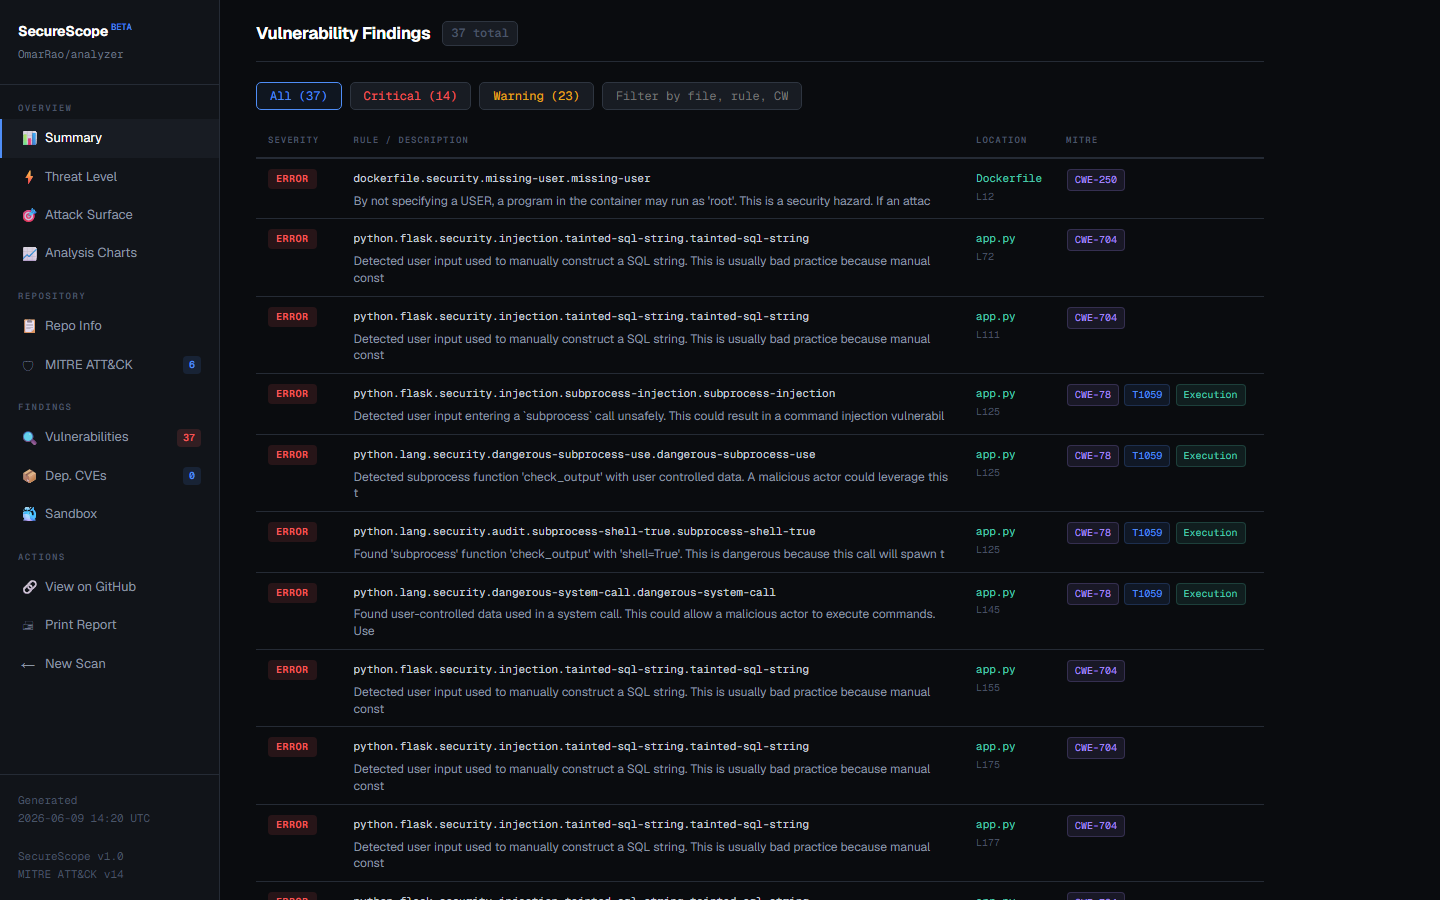
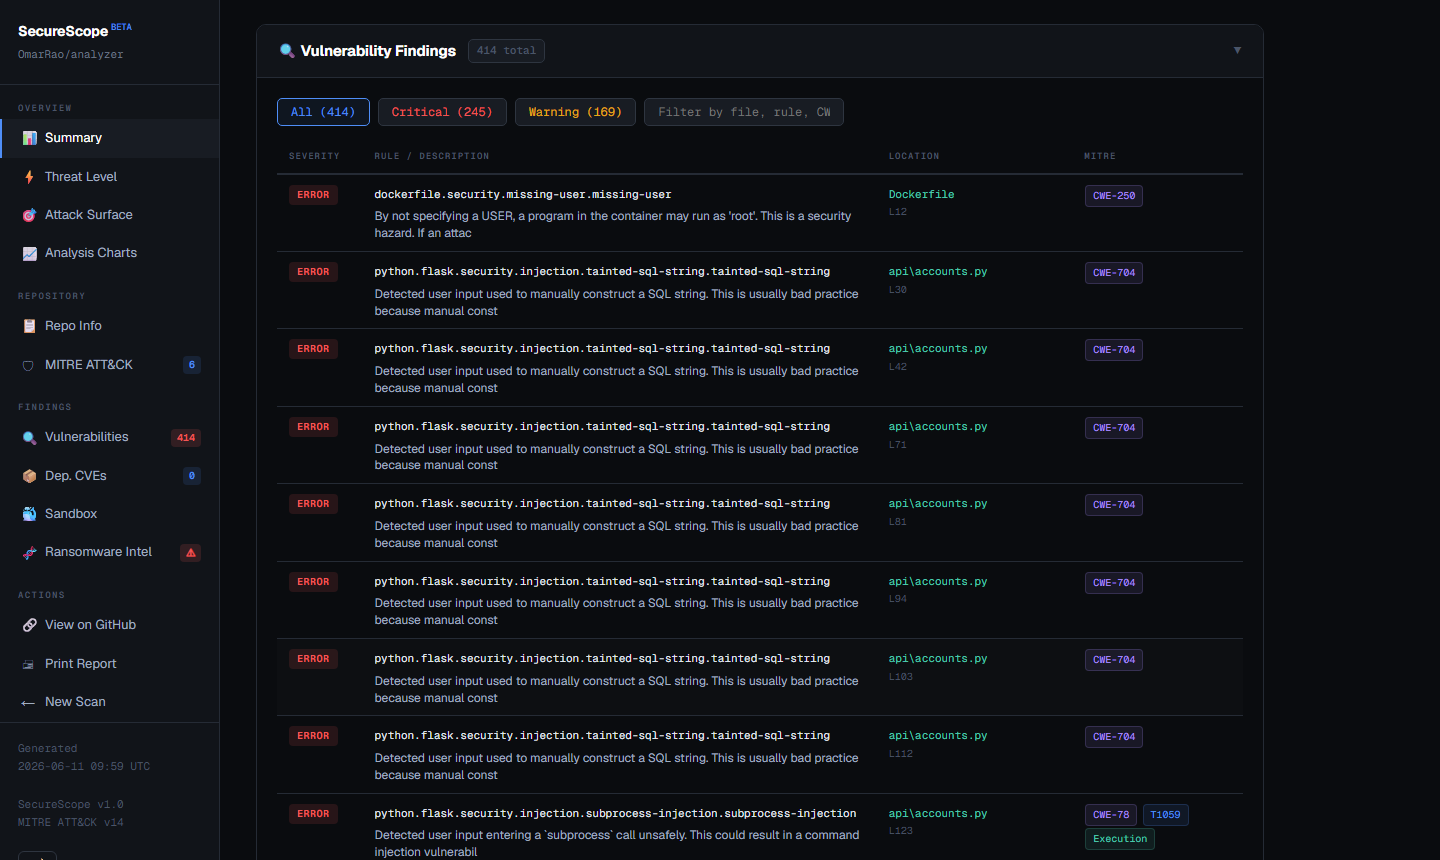
Update README screenshots and documentation for v2.0.0
- Replaced all landing page screenshots with fresh captures showing current UI
- Added Threat Intelligence Dashboard screenshots (feed + top-10 panel, resilience + YARA panel)
- Added report screenshots: header, ransomware strip + jump bar, charts, findings, ransomware intel section
- Updated README structure: cleaner section ordering, new Threat Intel feature table, YARA rule set table
- Added founder credit line at end of README
- All 11 screenshots regenerated from live localhost:5001 via Playwright headless

diff --git a/README.md b/README.md
@@ -7,29 +7,15 @@
 > AI-powered security analysis for any GitHub repository. Paste a URL, get a full threat report mapped to MITRE ATT&CK and CWE, with optional Docker sandbox execution and AI-generated fix diffs from your choice of LLM.
 > **v2.0.0** adds a live Threat Intelligence Dashboard, YARA rule engine for backup/infrastructure scanning, enterprise prevention guidance, and an interactive Data Protection resilience guide.
 
----
-
-## GitHub Security Review Tool
-
-SecureScope scans any GitHub repository for security vulnerabilities, maps every finding to the MITRE ATT&CK framework and CWE identifiers, computes a composite threat score, and produces a visual interactive report. Optionally runs the target code in an isolated Docker sandbox to observe runtime behaviour, and uses an AI advisor to generate diff-style patches for each finding.
-
 **[View Sample Report (PDF)](https://github.com/OmarRao/secure-scope/blob/main/docs/sample_report.pdf)**
-
-> Opens the complete interactive HTML threat report — threat scoring, MITRE ATT&CK mapping, Chart.js visualizations, and full findings table — rendered directly from GitHub.
 
 ---
 
 ## Landing Page
 
-Click **Analyze Repository** to open the scan wizard. The landing page supports both dark and light themes via the toggle in the top-right corner.
+Click **Analyze Repository** to open the scan wizard. The landing page lists all capabilities and recent scans, and supports both dark and light themes via the toggle in the top-right corner.
 
-### Dark Mode
-
-![SecureScope Landing Page Dark](docs/screenshots/01_landing_dark.png)
-
-### Light Mode
-
-![SecureScope Landing Page Light](docs/screenshots/05_landing_light.png)
+![SecureScope Landing Page](docs/screenshots/01_hero.png)
 
 ---
 
@@ -41,7 +27,7 @@ Repository analysis is launched through a 3-step modal wizard.
 
 Enter the GitHub repository URL and target branch.
 
-![Wizard Step 1 - Repository](docs/screenshots/02_modal_step1.png)
+![Wizard Step 1 - Repository](docs/screenshots/02_wizard_step1.png)
 
 ### Step 2 — AI Provider
 
@@ -56,99 +42,37 @@ Choose which LLM to use for fix generation. All major providers are supported wi
 | Ollama (local) | llama3 | No API key required |
 | None | N/A | Skip advisor |
 
-![Wizard Step 2 - AI Provider](docs/screenshots/03_modal_step2_providers.png)
+![Wizard Step 2 - AI Provider](docs/screenshots/03_wizard_step2.png)
 
 ### Step 3 — Scan Options
 
 Configure Docker sandbox execution and optional auto-commit of AI-generated fixes to GitHub.
 
-![Wizard Step 3 - Options](docs/screenshots/04_modal_step3_options.png)
-
----
-
-## Sample Report
-
-The screenshots below are taken from a live scan of [`OmarRao/analyzer`](https://github.com/OmarRao/analyzer), a deliberately vulnerable Python Flask banking application containing 1000+ findings across multiple MITRE ATT&CK techniques.
-
-**[View Sample Report (PDF)](https://github.com/OmarRao/secure-scope/blob/main/docs/sample_report.pdf)**
-
----
-
-### Report Overview
-
-The report header shows the repository name, description, branch, language, license, scan timestamp, and a prominent **Risk Score** badge (0-100) with a threat grade: `CRITICAL`, `HIGH`, `MEDIUM`, or `LOW`. Five KPI cards break down critical findings, warnings, dependency CVEs, ATT&CK technique count, and sandbox exit code.
-
-![Report Overview](docs/screenshots/06_report_overview.png)
-
----
-
-### Threat Level
-
-A full-width composite risk bar visualises the score against four bands. Below it, four score-breakdown cards show the weighted contribution of each finding type (errors x10, warnings x3, CVEs x8, runtime behaviors x15). A Priority Fix Queue lists the top 5 critical findings with file location, CWE, and ATT&CK technique for immediate remediation.
-
-![Threat Level Section](docs/screenshots/07_report_threat.png)
-
----
-
-### Attack Surface Analysis
-
-Eight attack vector tiles show the exposure status of the codebase across the most common MITRE-mapped vulnerability classes. Each tile turns red (Exposed), amber (Detected), or green (Clear) based on findings present in the scan.
-
-| Vector | CWE | ATT&CK |
-|--------|-----|--------|
-| SQL Injection | CWE-89 | T1190 Initial Access |
-| Command Injection | CWE-78 | T1059 Execution |
-| Cross-Site Scripting | CWE-79 | T1059.007 Execution |
-| SSRF | CWE-918 | T1090 Defense Evasion |
-| Path Traversal | CWE-22 | T1083 Discovery |
-| Hardcoded Credentials | CWE-798 | T1552.001 Credential Access |
-| Weak Cryptography | CWE-327 | T1600 Defense Evasion |
-| Insecure Deserialization | CWE-502 | T1059 Execution |
-
-![Attack Surface Analysis](docs/screenshots/08_report_surface.png)
-
----
-
-### Analysis Charts
-
-Six interactive Chart.js visualisations:
-
-- **Severity Distribution** - Doughnut chart of Critical / Warning / Info counts
-- **ATT&CK Technique Radar** - Radar plot across detected technique IDs
-- **Findings by File** - Horizontal heatmap bars ranked by finding density
-- **Severity per File** - Stacked bar chart (top 6 files, split by severity)
-- **Language Risk Distribution** - Polar area chart from GitHub language stats
-- **CWE Category Breakdown** - Horizontal bar of all CWE IDs ranked by frequency
-
-![Analysis Charts](docs/screenshots/09_report_charts.png)
-
----
-
-### Vulnerability Findings Table
-
-Filterable by severity (All / Critical / Warning) with a live search box. Each row shows severity badge, Semgrep rule ID, file and line number, CWE tag, ATT&CK technique tag, tactic tag, and an expandable AI Fix Advisory panel when an LLM is configured.
-
-![Findings Table](docs/screenshots/10_report_findings.png)
-
----
-
-### Report in Light Mode
-
-The report also works in light mode. The theme toggle persists across page reloads via localStorage.
-
-![Report Light Mode](docs/screenshots/11_report_light.png)
+![Wizard Step 3 - Options](docs/screenshots/04_wizard_step3.png)
 
 ---
 
 ## Threat Intelligence Dashboard (v2.0.0)
 
-A live threat intelligence panel sits below the scan wizard on the main dashboard. No scan is required — it loads automatically on page visit and refreshes every 60 seconds.
+A live threat intelligence panel sits below the scan wizard on the main dashboard. No scan is required — it loads automatically on page visit and auto-refreshes every 60 seconds.
 
-### Features
+### Live Threat Feed & Top 10 Active Variants
+
+Real-time tracking of 26 ransomware groups and APT actors ranked by severity. Click any row to expand full details: TTPs, CVEs, IOCs, affected sectors, and step-by-step prevention guidance.
+
+![Threat Intelligence Feed & Top 10](docs/screenshots/05_threat_intel_feed.png)
+
+### Data Protection & Resilience + YARA Scanner
+
+The 3-2-1-1-0 backup rule visualised with an interactive DR testing checklist (state saved to localStorage). The YARA Scanner panel lets you scan any local path — backups, infrastructure directories — against 6 predefined rule sets in real time via WebSocket progress streaming.
+
+![Data Protection & YARA Scanner](docs/screenshots/06_prevention_yara.png)
+
+### Threat Intelligence Feature Summary
 
 | Panel | Description |
 |-------|-------------|
-| **Live Threat Feed** | Scrollable feed of 20+ tracked ransomware and APT groups, sorted by severity. Click any row to expand TTPs, CVEs, IOCs, and prevention steps. |
+| **Live Threat Feed** | Scrollable feed of 26 tracked ransomware and APT groups, sorted by severity. Click any row to expand TTPs, CVEs, IOCs, and prevention steps. |
 | **Top 10 Active Variants** | Ranked list of most active threats in the last 90 days with detection counts, severity bars, and trend indicators. |
 | **Enterprise Prevention** | Tabbed cards (Ransomware / APT / Malware / Exploit) with actionable controls, difficulty ratings, and icons. |
 | **Data Protection & Resilience** | 3-2-1-1-0 backup rule visual guide plus an interactive DR testing checklist (state saved to localStorage). |
@@ -173,6 +97,61 @@ Without it, the scanner gracefully degrades: files are counted but no rules are 
 
 ---
 
+## Sample Report
+
+The screenshots below are taken from a live scan of [`OmarRao/analyzer`](https://github.com/OmarRao/analyzer), a deliberately vulnerable Python Flask banking application containing 414+ findings across multiple MITRE ATT&CK techniques.
+
+**[View Full Sample Report (PDF)](https://github.com/OmarRao/secure-scope/blob/main/docs/sample_report.pdf)**
+
+---
+
+### Report Header & KPI Summary
+
+The report header shows repository name, branch, language, license, scan timestamp, and a prominent **Risk Score** badge (0–100) with threat grade. Five KPI cards break down critical findings, warnings, dependency CVEs, ATT&CK technique count, and sandbox exit code.
+
+![Report Header](docs/screenshots/07_report_header.png)
+
+---
+
+### Ransomware Intelligence Strip & Jump Navigation
+
+The ransomware summary strip appears at the top of every report — showing Ransomware Risk score, Blast Radius, APT/Nation-State confidence, and Behaviors/Families count at a glance. Below it, a pill navigation bar lets you jump directly to any section.
+
+![Ransomware Strip & Jump Bar](docs/screenshots/08_report_rw_strip.png)
+
+---
+
+### Analysis Charts
+
+Six interactive Chart.js visualisations:
+
+- **Severity Distribution** — Doughnut chart of Critical / Warning / Info counts
+- **ATT&CK Technique Radar** — Radar plot across detected technique IDs
+- **Findings by File** — Horizontal heatmap bars ranked by finding density
+- **Severity per File** — Stacked bar chart (top 6 files, split by severity)
+- **Language Risk Distribution** — Polar area chart from GitHub language stats
+- **CWE Category Breakdown** — Horizontal bar of all CWE IDs ranked by frequency
+
+![Analysis Charts](docs/screenshots/09_report_charts.png)
+
+---
+
+### Vulnerability Findings Table
+
+Filterable by severity (All / Critical / Warning) with a live search box across rule ID, file path, CWE, and ATT&CK technique. Each row shows severity badge, Semgrep rule ID, file and line number, CWE tag, ATT&CK technique, tactic, and an expandable AI Fix Advisory panel when an LLM is configured.
+
+![Findings Table](docs/screenshots/10_report_findings.png)
+
+---
+
+### Ransomware Intelligence Section
+
+Full ransomware intelligence breakdown: hero KPI cards (risk score, blast radius, APT likelihood), behavioural pattern table, family match cards with origin/CVE/confidence data, a canvas-rendered global impact map, CVE cross-reference table, and affected code sections list.
+
+![Ransomware Intelligence](docs/screenshots/11_report_ransomware.png)
+
+---
+
 ## Architecture
 
 ```
@@ -180,9 +159,10 @@ main.py              CLI entry point
 analyzer.py          Semgrep static scan + CWE -> ATT&CK mapping + dep CVEs
 sandbox.py           Docker isolated runtime execution with strace observation
 advisor.py           Multi-LLM fix advisor (Anthropic, OpenAI, Gemini, Groq, Ollama)
-threat_intel.py      Threat intelligence engine: 30+ threat DB, feed, prevention guide
+ransomware.py        Ransomware detection engine (9 families, 14 behaviors, blast radius)
+threat_intel.py      Threat intelligence engine: 26 threat DB, feed, prevention guide
 yara_scanner.py      YARA rule engine for backup/infrastructure scanning
-yara_rules/          YARA .yar rule files (6 rule sets)
+yara_rules/          YARA .yar rule files (6 rule sets, 23 rules total)
 github_agent.py      Auto-commit security fixes to GitHub branch
 report.py            HTML + JSON report generation
 ui/
@@ -214,6 +194,9 @@ pip install -r requirements.txt
 
 # For additional LLM providers (optional):
 pip install openai google-generativeai groq
+
+# For YARA scanning (optional):
+pip install yara-python
 ```
 
 Set environment variables (the wizard also accepts keys interactively):
@@ -293,7 +276,7 @@ python main.py --repo https://github.com/owner/repo --commit --branch main
 
 ## Risk Scoring
 
-The composite risk score (0-100) is calculated as:
+The composite risk score (0–100) is calculated as:
 
 ```
 score = min(
@@ -307,10 +290,10 @@ score = min(
 
 | Score | Grade |
 |-------|-------|
-| 70-100 | CRITICAL |
-| 45-69 | HIGH |
-| 20-44 | MEDIUM |
-| 0-19 | LOW |
+| 70–100 | CRITICAL |
+| 45–69 | HIGH |
+| 20–44 | MEDIUM |
+| 0–19 | LOW |
 
 ---
 
@@ -318,8 +301,8 @@ score = min(
 
 | Version | Date | Highlights |
 |---------|------|------------|
-| [v2.0.0](https://github.com/OmarRao/secure-scope/releases/tag/v2.0.0) | 2026-06-12 | Threat Intelligence Dashboard, YARA scanner, enterprise prevention guide, DR checklist |
-| v1.0.0 | 2024-01-01 | Initial release: Semgrep scan, Docker sandbox, multi-LLM advisor, visual report |
+| [v2.0.0](https://github.com/OmarRao/secure-scope/releases/tag/v2.0.0) | 2026-06-12 | Threat Intelligence Dashboard, YARA scanner, enterprise prevention guide, DR checklist, collapsible report sections |
+| v1.0.0 | 2026-06-09 | Initial release: Semgrep scan, Docker sandbox, multi-LLM advisor, ransomware engine, visual report |
 
 ---
 
@@ -330,3 +313,7 @@ score = min(
 - GitHub PAT needs `repo` scope only
 - Cloned repositories are deleted from temp storage after each scan
 - API keys entered in the wizard are used only for the current scan and are never stored
+
+---
+
+*Built by [Omar Rao](https://github.com/OmarRao) — Engineer by trait, Data Resilience, Privacy & Cybersecurity Expert.*